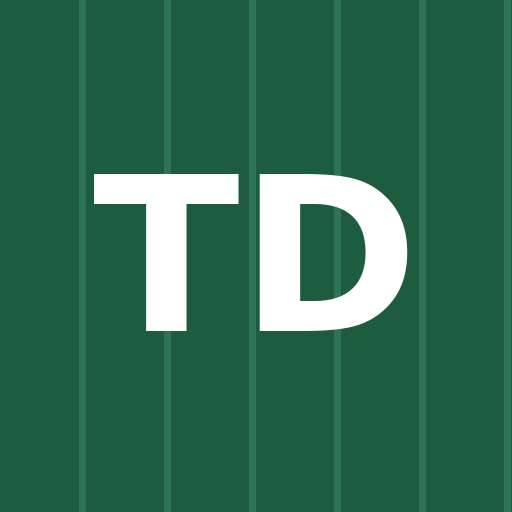
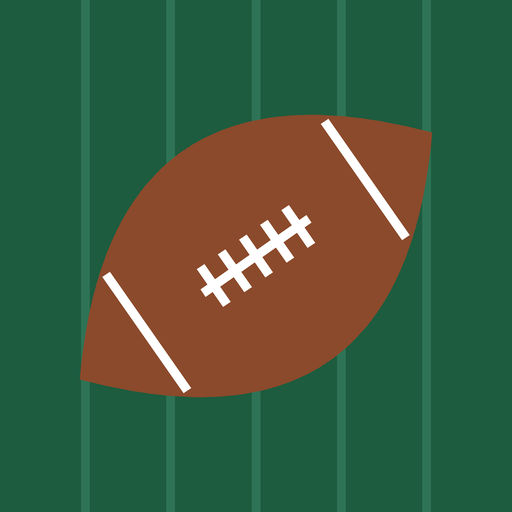
Add files via upload

Changed region(s): [[0.1562, 0.2188, 0.8438, 0.7812]]

diff --git a/index.html b/index.html
@@ -20,7 +20,8 @@ html{scroll-padding-top:env(safe-area-inset-top,0px)}
 body{margin:0;background:var(--chalk);color:var(--ink);font:400 15px/1.45 Barlow,system-ui,sans-serif}
 body::before{content:"";position:fixed;inset:0 0 auto;height:env(safe-area-inset-top,0px);z-index:10;background:var(--turf2)}
 header{background:var(--turf) repeating-linear-gradient(90deg,transparent 0 47px,rgba(255,255,255,.13) 47px 49px);color:#fff;padding:18px 16px 14px}
-h1{font:800 36px/1 "Barlow Condensed",sans-serif;margin:0}
+h1{font:800 36px/1 "Barlow Condensed",sans-serif;margin:0;display:flex;align-items:center;gap:10px}
+.ball{width:44px;height:44px;flex:none;filter:drop-shadow(0 2px 3px rgba(0,0,0,.3))}
 .sub{opacity:.85;margin-top:5px;font-size:13.5px}
 .upd{margin-top:10px;border:0;border-radius:8px;padding:8px 14px;background:#fff;color:var(--turf2);font:700 14px Barlow,sans-serif;cursor:pointer}
 .upd:disabled{opacity:.6}
@@ -81,7 +82,7 @@ details.set button{border:1px solid var(--line);background:var(--paper);color:va
 </head>
 <body>
 <header>
-  <h1>Tipp das</h1>
+  <h1><svg class="ball" viewBox="-50 -50 100 100" aria-hidden="true"><g transform="rotate(-35)"><path d="M-44 0Q0-52 44 0Q0 52-44 0Z" fill="#8b4a2b"/><g stroke="#fff" stroke-width="4" stroke-linecap="round"><path d="M-13 0H13M-10-5V5M-5-5V5M0-5V5M5-5V5M10-5V5"/><path d="M-27-14V14M27-14V14"/></g></g></svg>Tipp das</h1>
   <div class="sub" id="sub">Lade Daten …</div>
   <button id="upd" class="upd" hidden>Daten aktualisieren</button>
   <div class="sub" id="status" aria-live="polite"></div>
@@ -96,8 +97,8 @@ const EMBED = /*DATA*/null;
 const APP = !EMBED;   // als App: Daten laden, Button und Einstellungen zeigen
 let D = {week: "?", updated: "", slots: []};
 const pct = p => Math.round(p * 100) + " %";
-const de = x => String(x).replace(".", ",");
-const fair = p => de((1 / p).toFixed(2));
+const de = x => String(x).replace(/(\d)\.(\d)/g, "$1,$2");
+const fair = p => p > 0 ? de((1 / p).toFixed(2)) : "–";
 const TAX = 0.95; // bwin zieht 5 % Wettsteuer vom Gewinn ab
 const el = (tag, props = {}) => Object.assign(document.createElement(tag), props);
 const store = {get: k => { try { return localStorage.getItem(k) || ""; } catch { return ""; } },
@@ -110,24 +111,56 @@ function suggest(i, n) {
   return out;
 }
 function add(l) {
-  const old = picks[cur].find(x => x.game === l.game);
-  picks[cur] = picks[cur].filter(x => x.game !== l.game).concat(l);
-  flash = {id: l.id, text: old ? `Getauscht: ${de(old.label)} → ${de(l.label)}` : `Neu: ${de(l.label)}`};
+  if (picks[cur].some(x => x.id === l.id)) return;
+  const same = picks[cur].find(x => x.game === l.game);
+  picks[cur] = picks[cur].concat(l);
+  flash = {id: l.id, text: same ? `Neu: ${de(l.label)}, gemeinsam gerechnet mit ${de(same.label)}` : `Neu: ${de(l.label)}`};
   render();
+}
+// Legs aus demselben Spiel hängen zusammen: Simulation von Spielausgang und Punkten
+function rng(s) { return () => { s = s + 0x6D2B79F5 | 0; let t = Math.imul(s ^ s >>> 15, 1 | s); t = t + Math.imul(t ^ t >>> 7, 61 | t) ^ t; return ((t ^ t >>> 14) >>> 0) / 4294967296; }; }
+const cache = {};
+function corr(legs) {
+  const key = legs.map(l => l.id).sort().join();
+  if (key in cache) return cache[key];
+  const g = legs[0].gm, r = rng(42), N = 20000, one = legs.map(() => 0);
+  const imp = {[g.h]: (g.t + g.m) / 2, [g.a]: (g.t - g.m) / 2};
+  let all = 0;
+  for (let i = 0; i < N; i++) {
+    const R = Math.sqrt(-2 * Math.log(r() + 1e-12)), a = 2 * Math.PI * r();
+    const m = g.m + 12.6 * R * Math.cos(a), t = g.t + 13 * R * Math.sin(a);
+    const sc = {[g.h]: (t + m) / 2, [g.a]: (t - m) / 2};
+    let ok = true;
+    legs.forEach((l, j) => {
+      const d = l.d, opp = d.tm === g.h ? g.a : g.h;
+      const hit = d.k === "win" ? sc[d.tm] > sc[opp] : d.k === "hc" ? sc[d.tm] + d.ln > sc[opp]
+        : d.k === "ou" ? t > d.ln : d.k === "tt" ? sc[d.tm] > d.ln
+        : r() < 1 - Math.exp(-d.lam * Math.max(sc[d.tm], 0) / imp[d.tm]);
+      if (hit) one[j]++; else ok = false;
+    });
+    if (ok) all++;
+  }
+  const base = one.reduce((x, c) => x * c / N, 1);
+  return cache[key] = base > 0 ? (all / N) / base : 0;
+}
+function prob(list) {
+  const games = {};
+  list.forEach(l => (games[l.game] = games[l.game] || []).push(l));
+  return Object.values(games).reduce((p, g) => p * g.reduce((x, l) => x * l.p, 1) * (g.length > 1 ? corr(g) : 1), 1);
 }
 function remove(l) { picks[cur] = picks[cur].filter(x => x.id !== l.id); flash = null; render(); }
 function row(l) {
-  const rep = picks[cur].find(x => x.game === l.game);
-  const b = el("button", {className: "leg" + (l.warn ? " warn" : "") + (rep ? " swap" : "")});
-  b.innerHTML = `<span><strong>${de(l.label)}</strong><small>${l.match}${rep ? ` · <span class="rep">ersetzt ${de(rep.label)}, gleiches Spiel</span>` : ""}${l.warn ? " · " + l.warn : ""}</small></span><span><span class="p">${pct(l.p)}</span><span class="x" aria-hidden="true">${rep ? "⇄" : "+"}</span></span>`;
-  b.setAttribute("aria-label", (rep ? "Ersetzen durch: " : "Hinzufügen: ") + de(l.label));
+  const same = picks[cur].find(x => x.game === l.game);
+  const b = el("button", {className: "leg" + (l.warn ? " warn" : "") + (same ? " swap" : "")});
+  b.innerHTML = `<span><strong>${de(l.label)}</strong><small>${l.match}${same ? ` · <span class="rep">gleiches Spiel wie ${de(same.label)}, wird gemeinsam gerechnet</span>` : ""}${l.warn ? " · " + l.warn : ""}</small></span><span><span class="p">${pct(l.p)}</span><span class="x" aria-hidden="true">+</span></span>`;
+  b.setAttribute("aria-label", "Hinzufügen: " + de(l.label));
   b.onclick = () => add(l); return b;
 }
 function verdict() {
-  const list = picks[cur], p = list.reduce((a, l) => a * l.p, 1), v = document.getElementById("verdict");
+  const list = picks[cur], p = prob(list), v = document.getElementById("verdict");
   const q = parseFloat((odds[cur] || "").replace(",", "."));
   const pay = document.getElementById("payout"), eur = x => x.toFixed(2).replace(".", ",") + " €";
-  if (!list.length || !(q > 1)) { v.className = "verdict"; v.textContent = ""; pay.textContent = list.length ? "bwin-Quote eintragen, dann siehst du deinen Gewinn." : ""; return; }
+  if (!list.length || !(q > 1) || !(p > 0)) { v.className = "verdict"; v.textContent = ""; pay.textContent = list.length ? "bwin-Quote eintragen, dann siehst du deinen Gewinn." : ""; return; }
   const out = stake * q * TAX, avg = p * out - stake;
   pay.innerHTML = `Bei Treffer: <b>${eur(out)}</b> Auszahlung, <b>${eur(out - stake)}</b> Gewinn. Im Schnitt ${avg >= 0 ? "+" : "−"}${eur(Math.abs(avg))} pro Wette bei ${pct(p)} Trefferchance.`;
   const ev = p * q * TAX - 1;
@@ -136,7 +169,7 @@ function verdict() {
   v.title = "Erwartung pro Euro, 5 % Wettsteuer auf die Auszahlung eingerechnet";
 }
 function renderSlip() {
-  const s = D.slots[cur], list = picks[cur], ng = recGames(s), p = list.reduce((a, l) => a * l.p, 1);
+  const s = D.slots[cur], list = picks[cur], ng = recGames(s), p = prob(list);
   const box = document.getElementById("slip");
   const chips = el("div", {className: "chips"});
   if (!list.length) chips.append(el("span", {className: "lab", textContent: ng >= 4 ? "Noch leer. Tipp unten Legs an." : "Kein Vorschlag diese Woche, unter 4 Spiele mit Legs über 70 %. Tipp unten Legs an."}));
@@ -146,7 +179,7 @@ function renderSlip() {
     c.setAttribute("aria-label", "Entfernen: " + de(l.label));
     c.onclick = () => remove(l); chips.append(c);
   }
-  const msg = el("div", {className: "swapmsg", textContent: flash ? flash.text : ""});
+  const msg = el("div", {className: "swapmsg", textContent: list.length && !(p > 0) ? "Diese Legs schließen sich aus und können zusammen nicht gewinnen." : flash ? flash.text : ""});
   const row1 = el("div", {className: "row"});
   row1.innerHTML = `<div class="tot"><span class="big">${list.length ? pct(p) : "–"}</span><span class="lab">${list.length ? list.length + "er · fair " + fair(p) : ""}</span></div>`;
   const seg = el("div", {className: "seg"});
@@ -209,7 +242,7 @@ function render() {
   });
   main.replaceChildren(
     el("h2", {textContent: `Über 70 %, nur ${s.name} ${s.kick}`}),
-    el("p", {className: "lab", textContent: "+ fügt hinzu. Blauer Kasten mit ⇄: Das Spiel ist schon im Schein, antippen tauscht, weil bwin pro Spiel nur ein Leg kombiniert. Oben im Schein × entfernt."}),
+    el("p", {className: "lab", textContent: "+ fügt hinzu, oben im Schein entfernt ×. Blauer Kasten: gleiches Spiel wie ein Leg im Schein. Mehrere Legs aus einem Spiel hängen zusammen und werden gemeinsam gerechnet. Bei bwin läuft das über den Wettkonfigurator."}),
     top,
     el("h2", {textContent: `Weitere Optionen, nur ${s.name} ${s.kick}`}),
     el("p", {className: "lab", textContent: "Unter 70 %, schlechtes Wetter oder QB-Ausfall. Rechnet genauso mit, wird nur nicht empfohlen."}),
